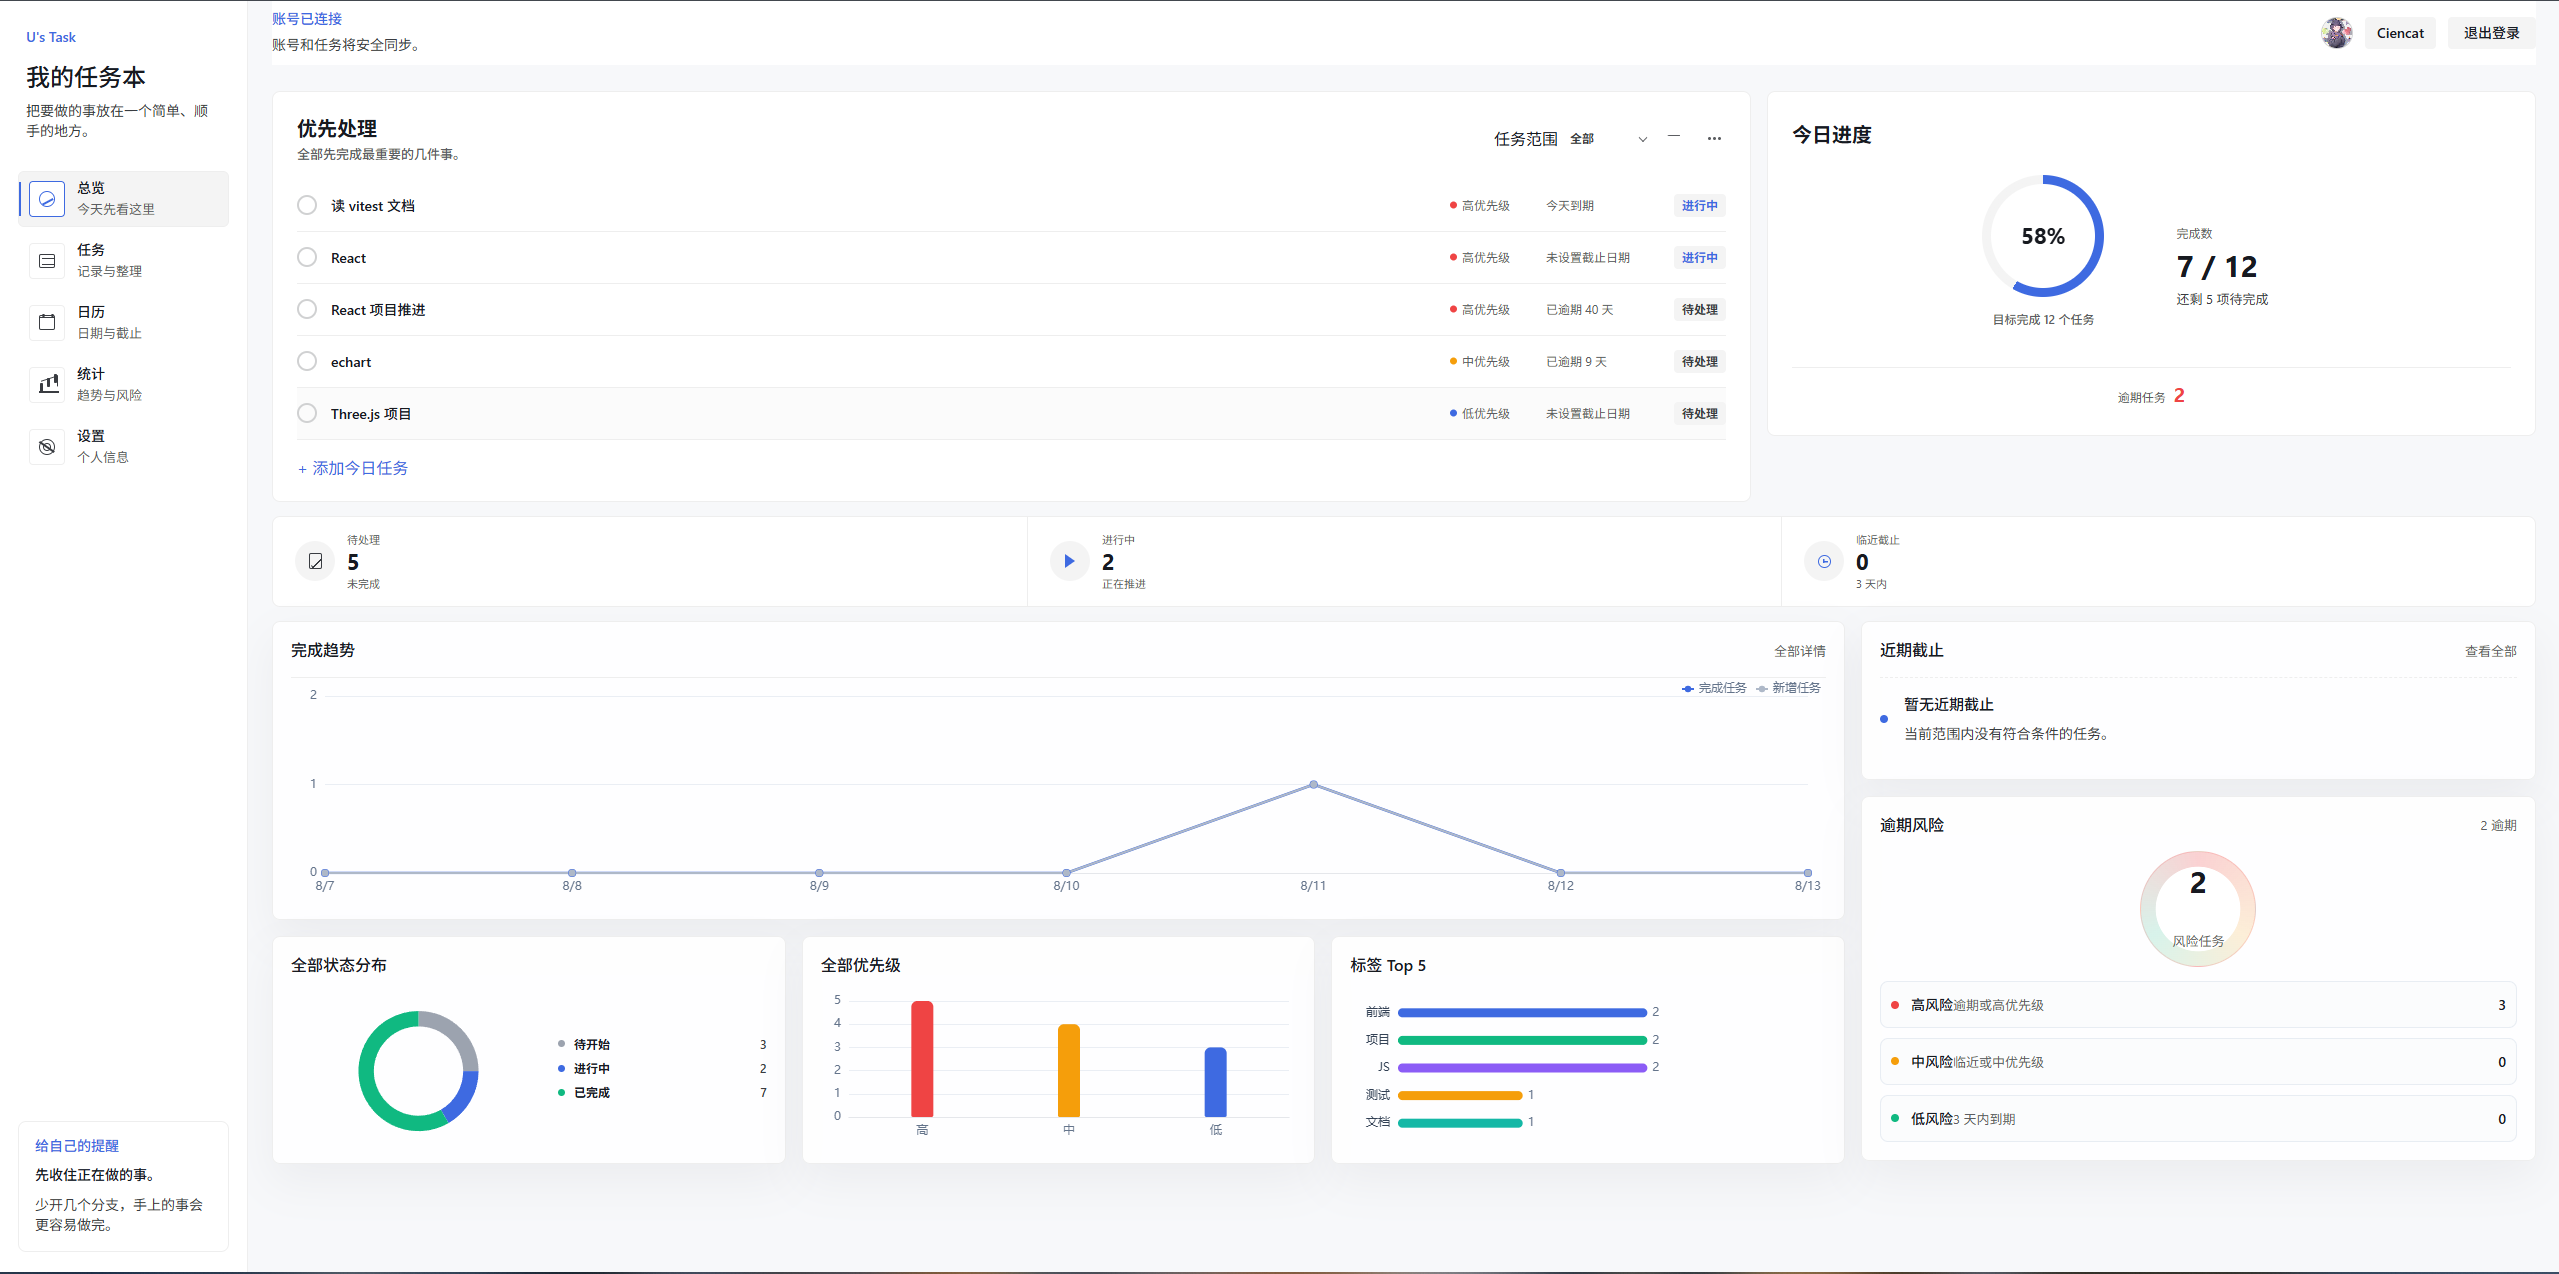
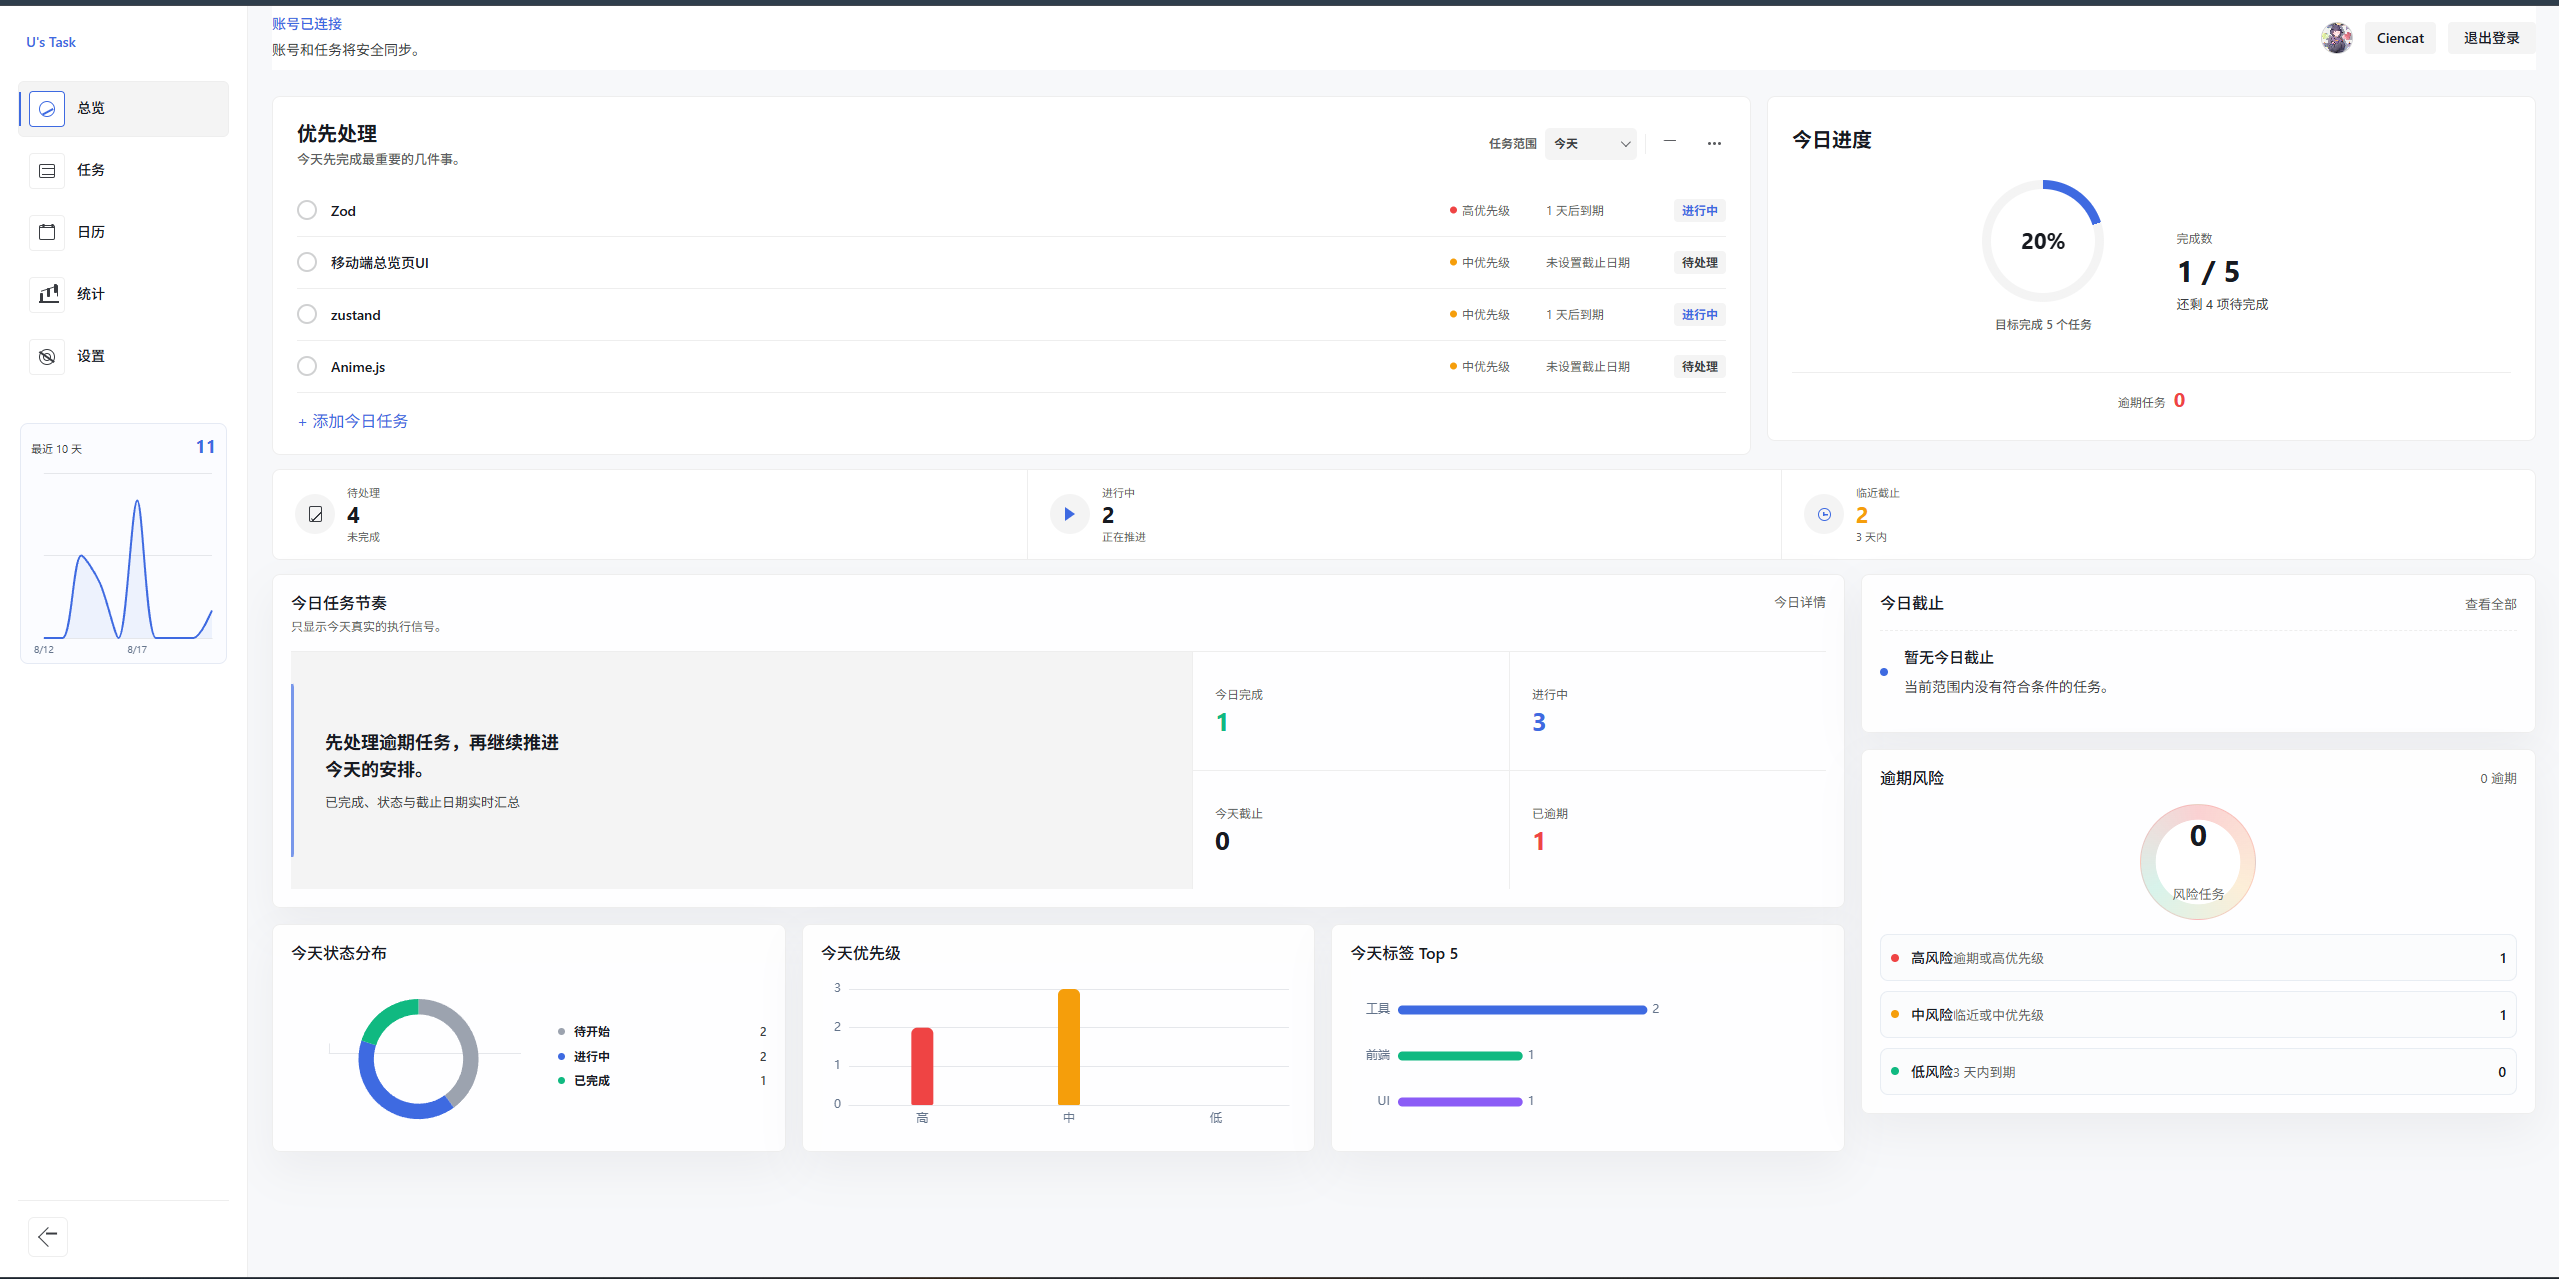
feat: 在侧边栏添加 chart 展示每日完成任务量

diff --git a/src/shared/components/layout/sidebar-task-pulse.tsx b/src/shared/components/layout/sidebar-task-pulse.tsx
@@ -1,0 +1,129 @@
+"use client";
+
+import Link from "next/link";
+import type { EChartsOption } from "echarts";
+
+import { useTaskStore } from "@/features/tasks/store/task-store";
+import { buildTrendData } from "@/features/tasks/utils/task-analytics";
+import { EChartsClient } from "@/shared/components/charts/echarts-client";
+import { ROUTES } from "@/shared/lib/constants/routes";
+
+const pulseOptionBase: EChartsOption = {
+  animation: true,
+  animationDuration: 360,
+  animationDurationUpdate: 0,
+  animationEasing: "cubicOut",
+  grid: {
+    top: 2,
+    right: 8,
+    bottom: 2,
+    left: 38,
+  },
+  tooltip: {
+    trigger: "axis",
+    confine: true,
+    backgroundColor: "#1f2937",
+    borderWidth: 0,
+    textStyle: {
+      color: "#ffffff",
+      fontSize: 11,
+    },
+    axisPointer: {
+      type: "line",
+      lineStyle: {
+        color: "rgba(62,106,225,0.28)",
+      },
+    },
+  },
+  xAxis: {
+    type: "value",
+    min: 0,
+    minInterval: 1,
+    splitNumber: 2,
+    axisLine: {
+      lineStyle: {
+        color: "#e5e7eb",
+      },
+    },
+    axisTick: {
+      show: false,
+    },
+    axisLabel: {
+      color: "#94a3b8",
+      fontSize: 9,
+    },
+    splitLine: {
+      lineStyle: {
+        color: "rgba(226,232,240,0.68)",
+      },
+    },
+  },
+  yAxis: {
+    type: "category",
+    inverse: true,
+    axisLine: {
+      show: false,
+    },
+    axisTick: {
+      show: false,
+    },
+    axisLabel: {
+      color: "#64748b",
+      fontSize: 9,
+      margin: 8,
+    },
+  },
+  series: [
+    {
+      name: "完成任务",
+      type: "bar",
+      barMaxWidth: 8,
+      barCategoryGap: "42%",
+      itemStyle: {
+        color: "#3e6ae1",
+        borderRadius: [0, 4, 4, 0],
+      },
+    },
+  ],
+};
+
+export function SidebarTaskPulse() {
+  const tasks = useTaskStore((state) => state.tasks);
+  const completedTrend = buildTrendData(tasks, { days: 10 });
+  const completedTotal = completedTrend.reduce((total, point) => total + point.completed, 0);
+  const option: EChartsOption = {
+    ...pulseOptionBase,
+    xAxis: {
+      ...(pulseOptionBase.xAxis as object),
+      max: Math.max(2, ...completedTrend.map((point) => point.completed)),
+    },
+    yAxis: {
+      ...(pulseOptionBase.yAxis as object),
+      data: completedTrend.map((point) => point.label),
+    },
+    series: [
+      {
+        ...(pulseOptionBase.series as Array<Record<string, unknown>>)[0],
+        data: completedTrend.map((point) => point.completed),
+      },
+    ],
+  };
+
+  return (
+    <Link className="dashboard-sidebar-pulse" href={ROUTES.stats} aria-label="查看最近十天的任务完成趋势">
+      <div className="dashboard-sidebar-pulse__head">
+        <span>最近 10 天</span>
+        <strong>{completedTotal}</strong>
+      </div>
+      {tasks.length ? (
+        <EChartsClient
+          className="dashboard-sidebar-pulse__chart"
+          ariaLabel="最近十天任务完成趋势图"
+          option={option}
+        />
+      ) : (
+        <span className="dashboard-sidebar-pulse__empty">完成任务后显示趋势</span>
+      )}
+    </Link>
+  );
+}

diff --git a/src/styles/dashboard.css b/src/styles/dashboard.css
@@ -69,6 +69,10 @@
   display: none;
 }
 
+.dashboard-sidebar-pulse {
+  display: none;
+}
+
 .dashboard-main {
   min-width: 0;
   padding: 24px 32px 48px;
@@ -642,6 +646,65 @@
     border-top: 1px solid var(--border);
   }
 
+  .dashboard-sidebar-pulse {
+    display: block;
+    min-height: 238px;
+    margin: 8px 2px 18px;
+    padding: 12px 10px 8px;
+    border: 1px solid #e5eaf4;
+    border-radius: 8px;
+    background: #fbfcff;
+    color: var(--foreground);
+    text-decoration: none;
+    transition:
+      border-color 180ms ease,
+      background-color 180ms ease,
+      transform 180ms ease;
+  }
+
+  .dashboard-sidebar-pulse:hover,
+  .dashboard-sidebar-pulse:focus-visible {
+    border-color: #b9c8f4;
+    background: #f7f9ff;
+    transform: translateY(-1px);
+  }
+
+  .dashboard-sidebar-pulse:focus-visible {
+    outline: 2px solid var(--primary);
+    outline-offset: 2px;
+  }
+
+  .dashboard-sidebar-pulse__head {
+    display: flex;
+    align-items: baseline;
+    justify-content: space-between;
+    gap: 8px;
+    color: var(--muted-strong);
+    font-size: 11px;
+    line-height: 1.2;
+  }
+
+  .dashboard-sidebar-pulse__head strong {
+    color: var(--primary);
+    font-size: 18px;
+    font-weight: 650;
+  }
+
+  .dashboard-sidebar-pulse__chart {
+    width: 100%;
+    height: 190px;
+    margin-top: 8px;
+  }
+
+  .dashboard-sidebar-pulse__empty {
+    display: block;
+    margin-top: 94px;
+    color: var(--muted);
+    font-size: 11px;
+    line-height: 1.4;
+    text-align: center;
+  }
+
   .dashboard-sidebar-collapse:hover,
   .dashboard-sidebar-collapse:focus-visible {
     border-color: var(--primary);
@@ -688,6 +751,10 @@
 
   .dashboard-shell--sidebar-collapsed .dashboard-sidebar-head {
     padding-inline: 0;
+  }
+
+  .dashboard-shell--sidebar-collapsed .dashboard-sidebar-pulse {
+    display: none;
   }
 
   .dashboard-shell--sidebar-collapsed .dashboard-sidebar-footer {

diff --git a/src/shared/components/charts/echarts-client.tsx b/src/shared/components/charts/echarts-client.tsx
@@ -42,7 +42,7 @@ export function EChartsClient({ option, ariaLabel, className, getClickHref }: EC
 
       chart = echarts.init(container, undefined, { renderer: "canvas" });
       instanceRef.current = chart;
-      chart.setOption(optionRef.current, true);
+      chart.setOption(buildMotionSafeOption(optionRef.current), true);
       syncTheme();
       chart.on("click", (params) => {
         const href = getClickHrefRef.current?.(params);
@@ -97,11 +97,20 @@ export function EChartsClient({ option, ariaLabel, className, getClickHref }: EC
       return;
     }
 
-    chart.setOption(option, true);
+    chart.setOption(buildMotionSafeOption(option), true);
     chart.setOption(buildChartThemeOption(document.documentElement.dataset.theme === "dark", option));
   }, [option]);
 
   return <div ref={chartRef} className={className} role="img" aria-label={ariaLabel} />;
+}
+
+function buildMotionSafeOption(option: EChartsOption): EChartsOption {
+  const prefersReducedMotion =
+    typeof window !== "undefined" && window.matchMedia?.("(prefers-reduced-motion: reduce)").matches;
+
+  return prefersReducedMotion
+    ? { ...option, animation: false, animationDuration: 0, animationDurationUpdate: 0 }
+    : option;
 }
 
 function buildChartThemeOption(isDark: boolean, option?: EChartsOption): EChartsOption {

diff --git a/src/shared/components/layout/app-sidebar.tsx b/src/shared/components/layout/app-sidebar.tsx
@@ -5,6 +5,7 @@ import { usePathname } from "next/navigation";
 
 import { AppTopbar } from "@/shared/components/layout/app-topbar";
 import { appNavigation, isAppNavigationActive } from "@/shared/lib/constants/navigation";
+import { SidebarTaskPulse } from "@/shared/components/layout/sidebar-task-pulse";
 
 type AppSidebarProps = {
   collapsed: boolean;
@@ -49,6 +50,8 @@ export function AppSidebar({ collapsed, onToggle }: AppSidebarProps) {
           );
         })}
       </nav>
+
+      <SidebarTaskPulse />
 
       <div className="dashboard-sidebar-footer">
         <button

diff --git a/src/features/tasks/components/task-form-dialog.test.tsx b/src/features/tasks/components/task-form-dialog.test.tsx
@@ -27,14 +27,7 @@ describe("TaskFormDialog", () => {
   });
 
   it("支持带无障碍名称和悬停提示的纯加号触发器", () => {
-    render(
-      <TaskFormDialog
-        onSubmitTask={() => {}}
-        triggerLabel="新增"
-        triggerAriaLabel="新增任务"
-        triggerIconOnly
-      />,
-    );
+    render(<TaskFormDialog onSubmitTask={() => {}} triggerLabel="新增" triggerAriaLabel="新增任务" triggerIconOnly />);
 
     const trigger = screen.getByRole("button", { name: "新增任务" });
 
